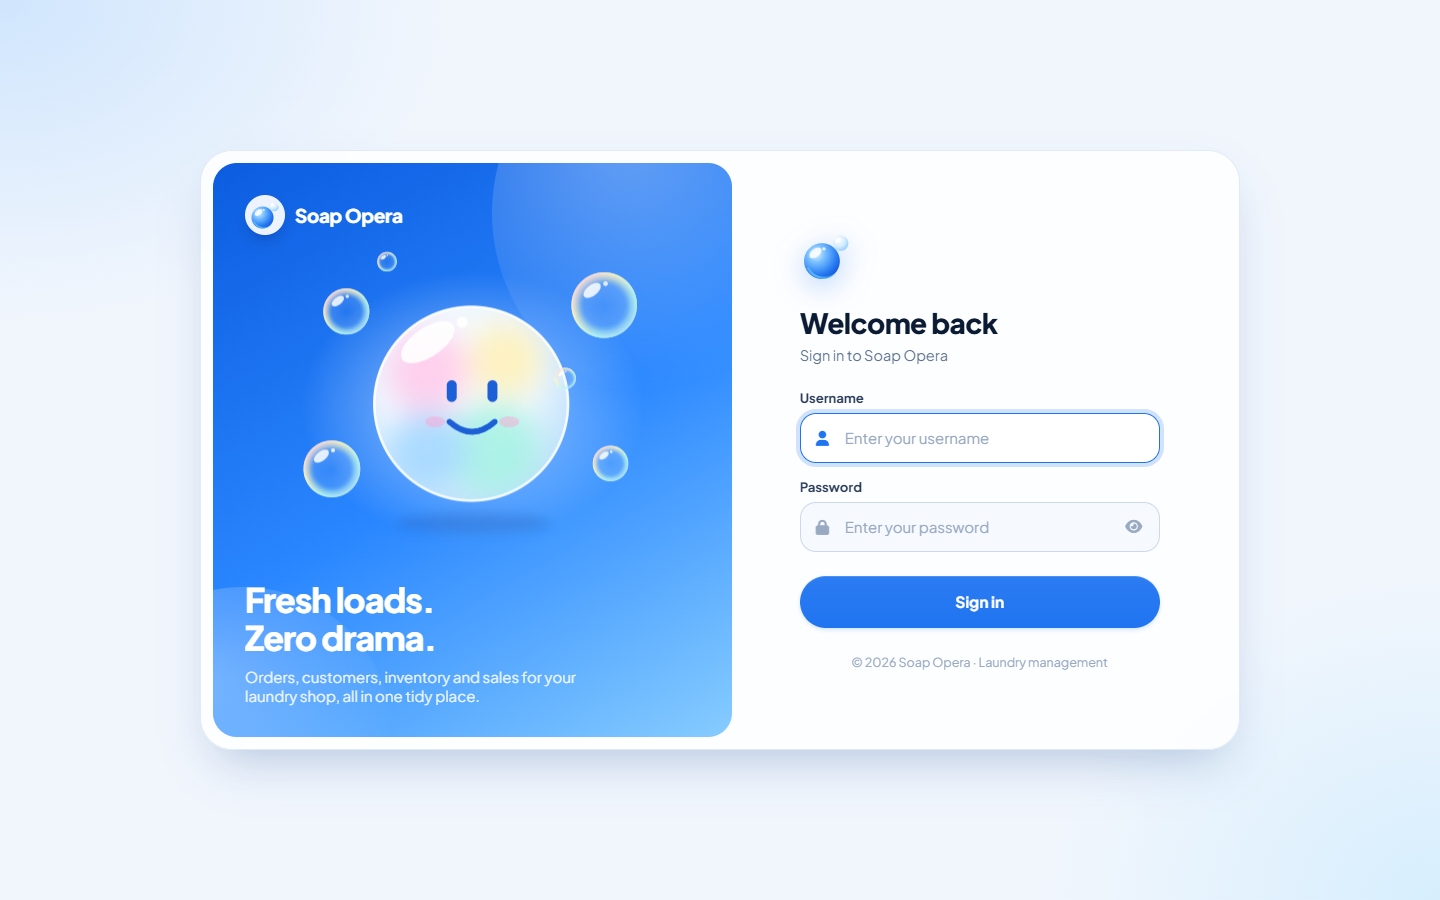
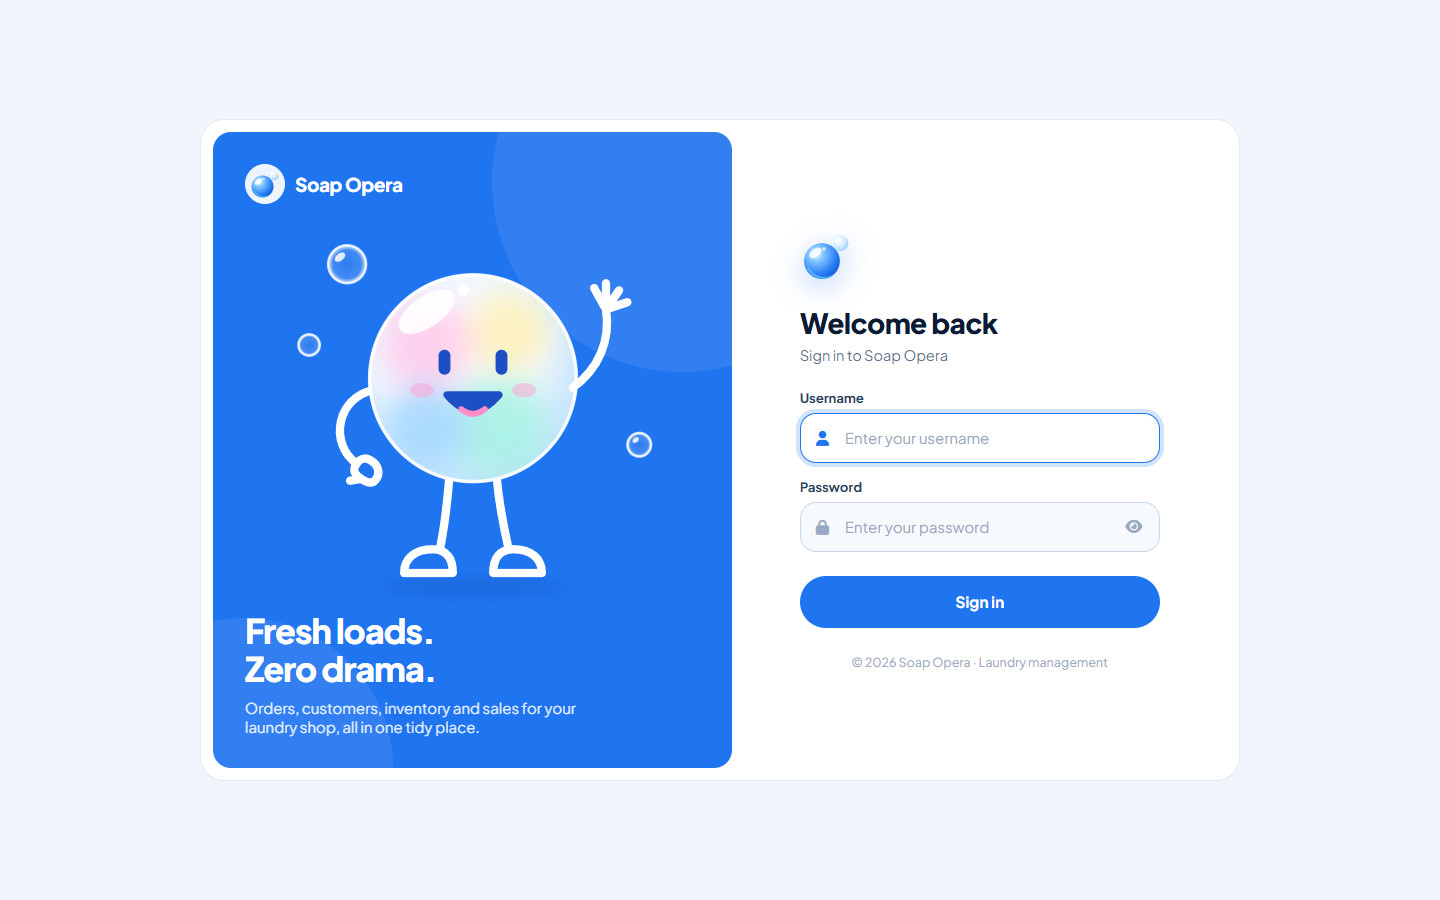
Update README screenshots and version for v1.2.0
Retakes every README screenshot (same names and sizes) to show the flat
look, the bubble mascot and the Needs attention panel, and moves the
version badge, the current-version note, the source download link and the
upgrade notes to v1.2.0 (still no database changes, so no migration).

diff --git a/README.md b/README.md
@@ -1,7 +1,7 @@
 <div align="center"><img src="docs/logo.png" width="100" alt="Soap Opera logo"></div>
 <h1 align="center">Soap Opera</h1>
 <div align="center">
-<img src="https://img.shields.io/badge/version-1.1.1-1F74F0?style=flat-square" alt="version">
+<img src="https://img.shields.io/badge/version-1.2.0-1F74F0?style=flat-square" alt="version">
 <img src="https://img.shields.io/badge/status-complete-1F74F0?style=flat-square" alt="status">
 <img src="https://img.shields.io/badge/Laravel-12-FF2D20?style=flat-square&logo=laravel&logoColor=white" alt="Laravel">
 <img src="https://img.shields.io/badge/PHP-8.2+-777BB4?style=flat-square&logo=php&logoColor=white" alt="PHP">
@@ -13,7 +13,7 @@
 **Soap Opera** is a web-based **Laravel** laundry management system for running a laundry shop: taking orders at the counter, tracking payments and order status, and reporting daily and monthly sales.
 It replaces paper job orders and notebooks with a **point of sale, order tracking, customer records, inventory and reports** in one place, and works on desktop, tablet and phone. The interface uses a soft blue-and-white bubble theme with rounded cards and glossy, 3D-style icons.
 
-> **Current version: v1.1.1** — documentation update: the development team, a GitHub-only security policy and matching badges. Built on v1.1.0: the app is now **Soap Opera**, with a new blue-and-white bubble look on every page, a redesigned login page and dashboard, and a POS that groups services into sections by service type. Built on v1.0.0, the first stable release: real database backup and restore, correct order totals and payments, role-based access, faster pages and a mobile-friendly layout. See [Releases](https://github.com/nncast/laravel-laundry-management-system/releases) for the release notes.
+> **Current version: v1.2.0** — a flatter look around the bubble mascot (now with arms, legs and facial expressions), a **Needs attention** panel on the dashboard and a daily automatic backup. Built on v1.1.0: the app is now **Soap Opera**, with a new blue-and-white bubble look on every page, a redesigned login page and dashboard, and a POS that groups services into sections by service type. Built on v1.0.0, the first stable release: real database backup and restore, correct order totals and payments, role-based access, faster pages and a mobile-friendly layout. See [Releases](https://github.com/nncast/laravel-laundry-management-system/releases) for the release notes.
 
 <p align="center">
   <img width="400" alt="Login" src="docs/screenshots/login.png" />
@@ -103,7 +103,7 @@ It replaces paper job orders and notebooks with a **point of sale, order trackin
 git clone https://github.com/nncast/laravel-laundry-management-system.git
 cd laravel-laundry-management-system
 ```
-Or download the [source .zip](https://github.com/nncast/laravel-laundry-management-system/archive/refs/tags/v1.1.1.zip) and extract it.
+Or download the [source .zip](https://github.com/nncast/laravel-laundry-management-system/archive/refs/tags/v1.2.0.zip) and extract it.
 
 ### 3. Install dependencies
 ```bash
@@ -210,12 +210,12 @@ Go to **Settings → Master Setting → Data Backup**.
 
 ## Upgrading
 
-**From v1.0.0, v1.0.1 or v1.1.0:** pull or download v1.1.1 and replace the files. There are no database changes, so no migration is needed. Your business name, address and logo are kept.
+**From v1.0.0, v1.0.1, v1.1.0 or v1.1.1:** pull or download v1.2.0 and replace the files. There are no database changes, so no migration is needed. Your business name, address and logo are kept.
 
 **From 0.9.0:**
 
 1. Download a backup from **Settings → Master Setting** first.
-2. Pull or download the latest version (v1.1.1), then run:
+2. Pull or download the latest version (v1.2.0), then run:
    ```bash
    composer install
    php artisan migrate
